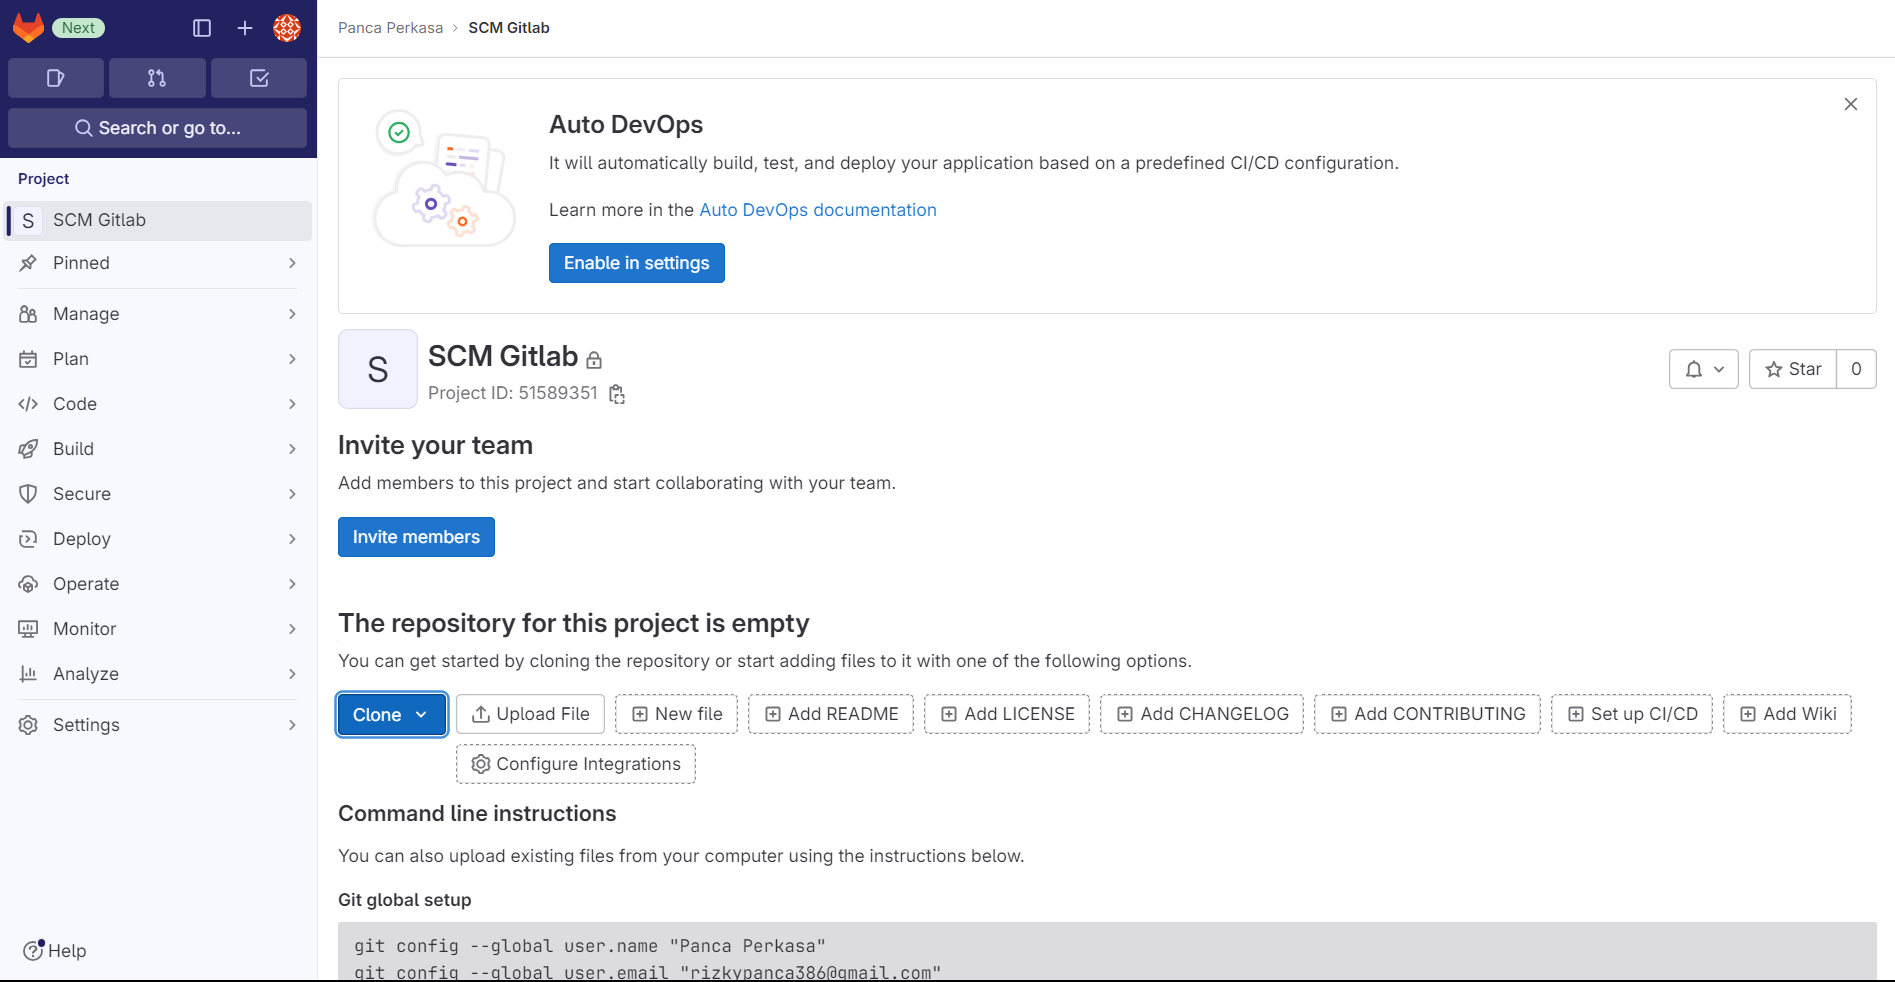
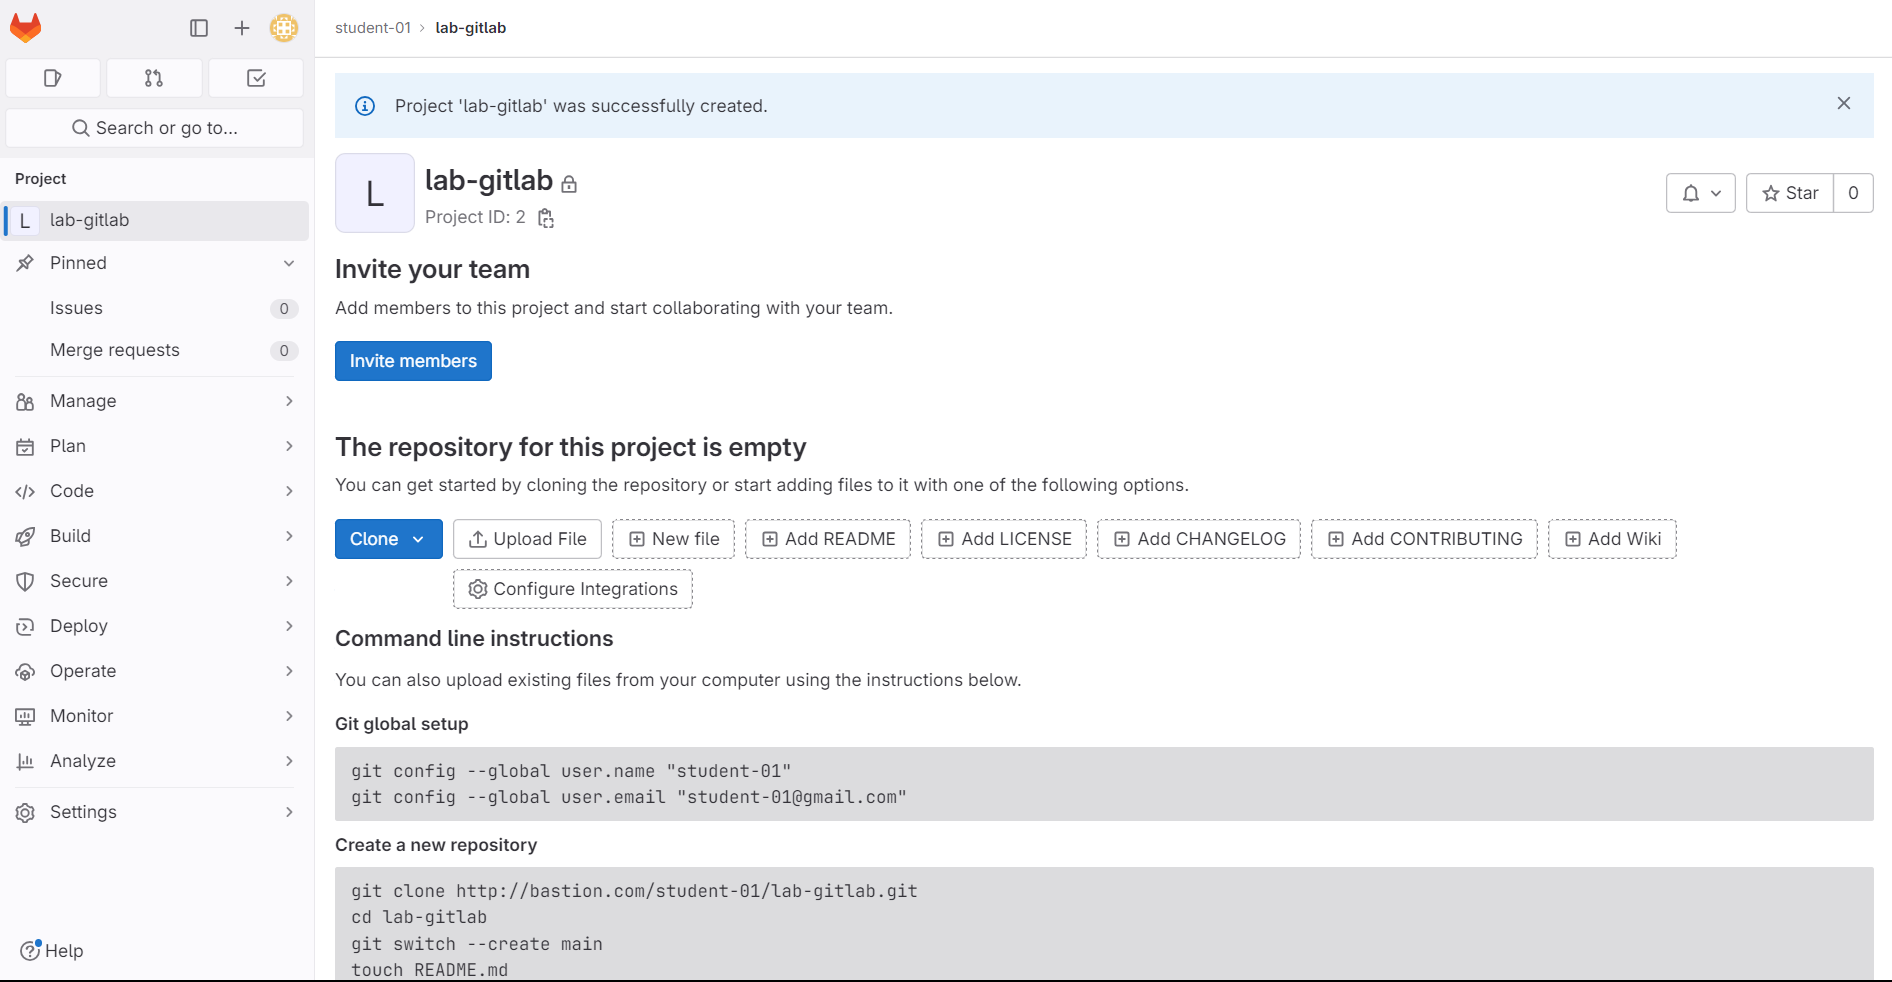
update

diff --git a/Chapter-2-Gitlab/01-Introduction-Gitlab.md b/Chapter-2-Gitlab/01-Introduction-Gitlab.md
@@ -1,56 +1,61 @@
+# Introduction Gitlab
 
-
-
-
-
-
+## Create a new project in Gitlab
 
 Access the Gitlab url <br>
 Enter username and password
 ![Alt text](/Chapter-2-Gitlab/img/0-login.png)
 
-## Create new project & push project from local to remote repository Gitlab
-
-Create a new project via the Gitlab dashboard
+Click create a project
 ![Alt text](/Chapter-2-Gitlab/img/1-create-new-project.png)
 
+Click Create blank project
+![Alt text](/Chapter-2-Gitlab/img/1-create-new-project2.png)
+
+Fill information below and click Create Project
 ![Alt text](/Chapter-2-Gitlab/img/2-create-new-project.png)
 
 Your project repository has been successfully created
 ![Alt text](/Chapter-2-Gitlab/img/3-success-create-project.png)
 
-Back to your student lab
+
+## Push a project to remote repository Gitlab
+Enter the command below to clone the remote repository to your local machine
 ```
-git clone https://github.com/PokerCoder/RockPaperScissors.git
+git clone https://github.com/i3-training/dso-training.git
+mkdir lab-gitlab
+mv dso-training/Chapter-2-Gitlab/sample-apps-chapter-2/* lab-gitlab/
 ```
 
+Enter the command below to configure Git credentials
 ```
-cd RockPaperScissors/
-rm -rf .git/
-
-# Adjust it to the email and username you have
 git config --global user.email "rizkypanca386@gmail.com"
 git config --global user.name "pancaperkasa" 
 ```
 
-Copy the repository URL address that we created previously
+Return to the Github web project dashboard that we have created <br>
+Copy the URL link in the Clone with HTTP line
 ![Alt text](/Chapter-2-Gitlab/img/4-remote-repository.png)
 
-Back to your student lab <br>
-Initiate git on the project in the local VM and connect it to the repository you created previously by paste the url you have been copied
+Enter the command below in your local machine <br>
+Initiate git on the project in the local machine and connect it to the repository you created previously by paste the url you have been copied
 ```
 git init
 git branch -m main
 git remote add origin https://gitlab.com/pancaperkasa/scm-gitlab.git
-git status
 ```
-The following is the project status in the remote repository and the local repository
-![Alt text](/Chapter-2-Gitlab/img/5-git-status.png)
 
-The following is a command to add all source code in that folder to the remote repository
+
+The following is a command to add all files in that folder to the remote repository
 ```
 git add .
 ```
+
+The following is a command to see project status between the remote repository and the local repository
+```
+git status
+```
+![Alt text](/Chapter-2-Gitlab/img/5-git-status.png)
 
 The following is a command to fill in the message for the changes we made
 ```
@@ -58,7 +63,7 @@ git commit -m "first commit"
 ```
 ![Alt text](/Chapter-2-Gitlab/img/6-git-commit.png)
 
-in this case we will push our project to the master branch
+in this case we will push our project to the main branch
 ```
 git push --set-upstream origin main
 ```
